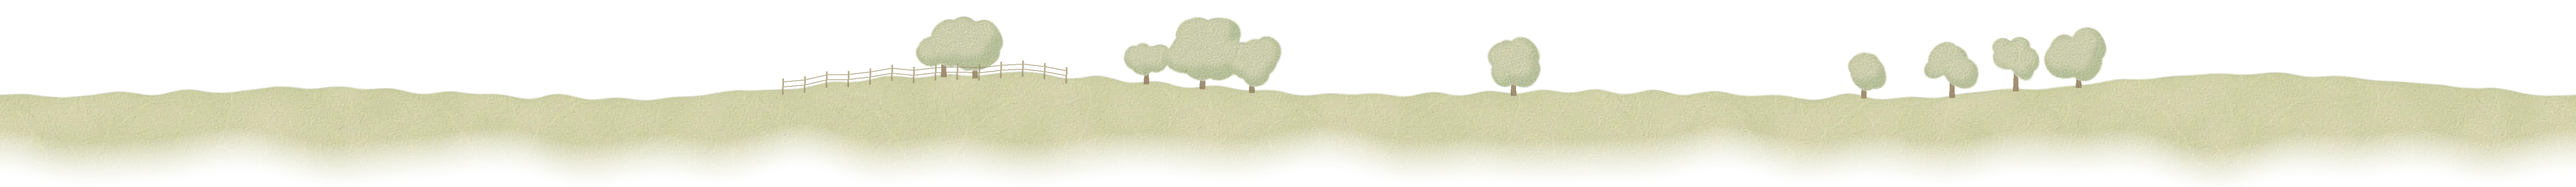
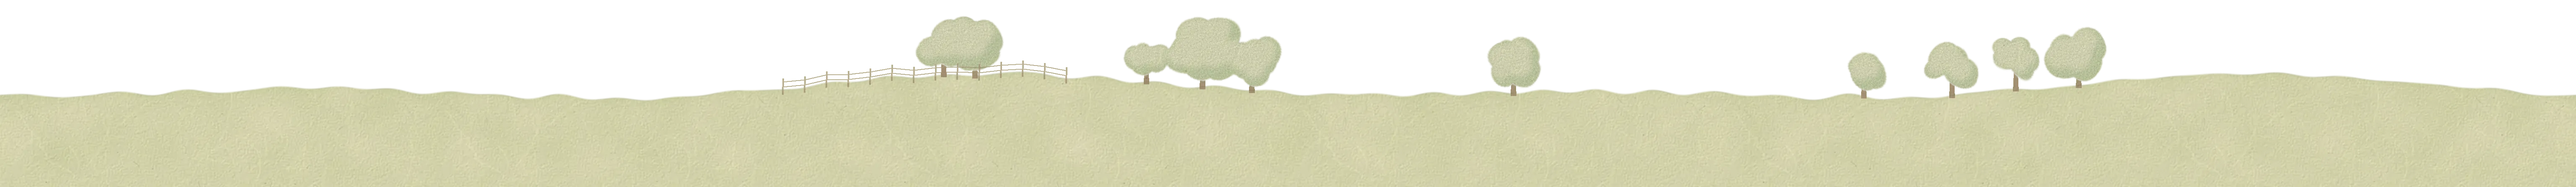
Paper: the landscape moves up and down too, the farther the slower, with more of each layer below it (#20)
Paul (11-06): "ideally the parallax should also move in the Y direction, not just the X direction".
Each layer now has a `--rate-y` (sky 0.02, mountains 0.06, hills 0.15, meadow 0.3), a little under its
rate across. Up and down a layer moves its `--rate-y` of the pan, eased to a stop: for a pan of y px it
moves rate-y × (y − y³ / 3 reach²), with y held within `--reach` (1500 px at scale 1), so at most 20, 60,
150 and 300 px.

So no pan shows an edge, each layer's foot eases over its last 40 px to one tone on the sheet, and a
512 px tile of that tone (`landscape-*-fill.webp`) goes on below it, deeper than the layer in front can
move away from it: mountains 110 px, hills 170, meadow 330. The sky reaches 32 px past the window. The
meadow no longer fades to bare paper at the bottom: its ground goes on down. The other tiles are
unchanged byte for byte.

Changed region(s): [[0.0, 0.7188, 1.0, 1.0]]

diff --git a/packages/paper/paper.css b/packages/paper/paper.css
@@ -45,11 +45,15 @@
 }
 
 /* A landscape in place of the sheet behind a canvas: the sky, then mountains, hills and a meadow, each a layer of its own that a pan moves
-   by `transform` at its `--rate` of the pan, wrapped by its own width past the window (each child's `offsetWidth` less the landscape's). It
-   sits at the bottom of the window whatever the canvas does, and is larger on a taller one. The sky is the sheet, cream under it, with
-   the clouds painted on: one opaque layer where the sheet and its clouds were two. */
+   by `transform`. Across, by its `--rate` of the pan, wrapped by its own width past the window (each child's `offsetWidth` less the
+   landscape's). Up and down, by its `--rate-y` of the pan, eased to a stop: for a pan of y px, at most `--reach` × the scale either way,
+   it moves `--rate-y` × (y − y³ / 3 reach²), so 2/3 × `--rate-y` × reach at the most. Each layer's fill goes on below it further than
+   the layer in front can move away from it, and the sky reaches past the window by more than it moves, so no edge shows. At rest it
+   sits at the bottom of the window, and is larger on a taller one. The sky is the sheet, cream under it, with the clouds painted on: one
+   opaque layer where the sheet and its clouds were two. */
 .paper-landscape {
   --landscape-scale: 1;
+  --reach: 1500;
   position: absolute;
   inset: 0;
   overflow: hidden;
@@ -64,8 +68,9 @@
 
 .paper-landscape-sky {
   --rate: 0.03;
-  top: 0;
-  bottom: 0;
+  --rate-y: 0.02;
+  top: -32px;
+  bottom: -32px;
   width: calc(100% + 2048px);
   background: url("./sky-clouds.webp") 0 0 / 2048px 2048px repeat-x, url("./landscape-sky.webp") 0 0 / 2048px 100% repeat-x, var(--paper-cream);
 }
@@ -80,9 +85,24 @@
   background: var(--tile) 0 0 / var(--period) 100% repeat-x;
 }
 
+.paper-landscape-mountains::after,
+.paper-landscape-hills::after,
+.paper-landscape-meadow::after {
+  content: "";
+  position: absolute;
+  top: 100%;
+  left: 0;
+  right: 0;
+  height: calc(var(--fill) * var(--landscape-scale));
+  background: var(--fill-tile) 0 0 / calc(512px * var(--landscape-scale)) repeat;
+}
+
 .paper-landscape-mountains {
   --rate: 0.08;
+  --rate-y: 0.06;
   --tile: url("./landscape-mountains.webp");
+  --fill-tile: url("./landscape-mountains-fill.webp");
+  --fill: 110px;
   --width: 6144px;
   --height: 280px;
   --bottom: 175px;
@@ -90,7 +110,10 @@
 
 .paper-landscape-hills {
   --rate: 0.2;
+  --rate-y: 0.15;
   --tile: url("./landscape-hills.webp");
+  --fill-tile: url("./landscape-hills-fill.webp");
+  --fill: 170px;
   --width: 4096px;
   --height: 190px;
   --bottom: 96px;
@@ -98,7 +121,10 @@
 
 .paper-landscape-meadow {
   --rate: 0.4;
+  --rate-y: 0.3;
   --tile: url("./landscape-meadow.webp");
+  --fill-tile: url("./landscape-meadow-fill.webp");
+  --fill: 330px;
   --width: 3072px;
   --height: 224px;
   --bottom: 0px;

diff --git a/packages/paper/make_paper.py b/packages/paper/make_paper.py
@@ -12,7 +12,9 @@ The sky is a blue wash that comes and goes down the sheet, and one tile of pictu
 
 The landscape is a sky (the cream sheet with the sky's clouds on it, in paper.css) and three layers over it, each a tile that wraps across
 only, each painted on the cream sheet itself (tooth, flecks and all), so where one hides the sky it shows the same paper: mountains repeat on 6144 px, hills on 4096 and the meadow on 3072, each wider than a
-4K window at the size it's drawn there, and as each pans at its own rate, the three rarely line up as they did.
+4K window at the size it's drawn there, and as each pans at its own rate, the three rarely line up as they did. Each one's foot eases to
+a single tone, and a tile of that tone on the sheet (`-fill`) goes on below it, so a pan up or down that moves the layers apart shows
+more of a layer and never its edge.
 """
 
 import sys
@@ -271,9 +273,18 @@ def pencil(rng, colour, shape, ink, strength):
     return colour * (1 - stroke[..., None]) + np.array(ink, dtype=float) * stroke[..., None]
 
 
-def save_layer(colour, alpha, out):
+def save_layer(colour, alpha, out, paper, scale):
+    """The layer, its foot eased over its last 40 px to one tone on the sheet, and that tone below it as `<out>-fill`: a tile a pan up
+    shows beneath the layer, so the layer goes on down with no edge."""
+    height = colour.shape[0]
+    tone = colour[-round(6 * scale):].reshape(-1, 3).mean(axis=0)
+    toward = np.clip((np.arange(height) - (height - 40 * scale)) / (40 * scale), 0, 1)[:, None, None] ** 2
+    colour = colour * (1 - toward) + paper * (tone / paper.reshape(-1, 3).mean(axis=0)) * toward
     rgba = np.dstack((np.clip(colour, 0, 255), np.clip(alpha, 0, 1) * 255)).round().astype("uint8")
-    Image.fromarray(rgba, "RGBA").save(out, quality=82, alpha_quality=90, method=6)
+    Image.fromarray(rgba, "RGBA").save(f"{out}.webp", quality=82, alpha_quality=90, method=6)
+    sheet = np.asarray(Image.open(out.rsplit("/", 1)[0] + "/cream.webp").convert("RGB"), dtype=float)
+    below = sheet * (tone / sheet.reshape(-1, 3).mean(axis=0))
+    Image.fromarray(np.clip(below, 0, 255).round().astype("uint8")).save(f"{out}-fill.webp", quality=82, method=6)
 
 
 def mountains(rng, paper, out):
@@ -297,7 +308,7 @@ def mountains(rng, paper, out):
         amount *= 1 + 0.05 * granulate(rng, height, width, scale)
         colour = colour * (1 - here[..., None]) + pigment(paper, (0xa2, 0xb0, 0xc4), np.clip(amount, 0, 1)) * here[..., None]
         cover = np.maximum(cover, here)
-    save_layer(colour, cover, out)
+    save_layer(colour, cover, out, paper, scale)
 
 
 def bushes(rng, width, height, scale, count, low, high, size, ground):
@@ -330,7 +341,7 @@ def hills(rng, paper, out):
     amount += 0.12 * np.exp(-np.clip(depth, 0, None) / (4 * scale)) + 0.22 * blur(clumps, 2 * scale) * (depth < 4 * scale)
     amount *= 1 + 0.05 * granulate(rng, height, width, scale)
     colour = pencil(rng, pigment(paper, (0xa6, 0xb8, 0x92), np.clip(amount, 0, 1)), cover, (0x6e, 0x7c, 0x62), 0.25)
-    save_layer(colour, cover, out)
+    save_layer(colour, cover, out, paper, scale)
 
 
 def tree(draw, rng, x, ground, scale):
@@ -360,8 +371,7 @@ def fence(draw, x, ground, posts, scale):
 
 
 def meadow(rng, paper, out):
-    """The meadow nearest: a warm green line with trees in twos and threes and a fence, fading to bare paper at the bottom, as a
-    painter leaves the foreground."""
+    """The meadow nearest: a warm green line with trees in twos and threes and a fence."""
     scale, (width, height) = LAND_SCALE["meadow"], LAND_SIZE["meadow"]
     width, height = round(width * scale), round(height * scale)
     ridge = line(rng, width, 2400 * scale, 700 * scale) * 9 * scale + line(rng, width, 300 * scale, 60 * scale) * 1.6 * scale
@@ -381,10 +391,7 @@ def meadow(rng, paper, out):
     trunk, crown, lit, rails = (np.asarray(layers[name], dtype=float) / 255 for name in ("trunk", "crown", "lit", "fence"))
     crown = wobble(rng, blur(crown, 0.8 * scale), 2 * scale)
     lit = blur(lit * crown, 3 * scale)
-    bottom = height - rows
-    brush = line(rng, width, 900 * scale, 160 * scale)[None, :] * 6 * scale
-    fade = np.clip((bottom - 6 * scale + brush) / (56 * scale), 0, 1) ** 1.5
-    ground_cover = edge(depth, 1.2 * scale) * fade
+    ground_cover = edge(depth, 1.2 * scale)
     amount = 0.52 * (1 + 0.06 * wide_band(rng, height, width, 1 / (500 * scale), 1 / (60 * scale)))
     amount += 0.16 * np.exp(-np.clip(depth, 0, None) / (4 * scale))
     amount *= 1 + 0.06 * granulate(rng, height, width, scale)
@@ -394,7 +401,7 @@ def meadow(rng, paper, out):
     wood = np.clip(trunk * (1 - crown) + rails * 0.8, 0, 1)
     colour = colour * (1 - wood[..., None]) + pigment(paper, (0x9a, 0x86, 0x6a), np.full(wood.shape, 0.9)) * wood[..., None]
     colour = pencil(rng, colour, np.maximum(edge(depth, 1.2 * scale), crown), (0x6a, 0x76, 0x58), 0.26)
-    save_layer(colour, np.maximum(ground_cover, np.maximum(crown, wood)), out)
+    save_layer(colour, np.maximum(ground_cover, np.maximum(crown, wood)), out, paper, scale)
 
 
 def landscape_sky(rng, out):
@@ -415,7 +422,7 @@ def landscape(out):
     for name, paint, seed in (("mountains", mountains, 9), ("hills", hills, 10), ("meadow", meadow, 11)):
         (width, height), scale = LAND_SIZE[name], LAND_SCALE[name]
         paper = paper_under(cream, flecks, round(height * scale), round(width * scale), scale)
-        paint(np.random.default_rng(seed), paper, f"{out}/landscape-{name}.webp")
+        paint(np.random.default_rng(seed), paper, f"{out}/landscape-{name}")
     landscape_sky(np.random.default_rng(12), f"{out}/landscape-sky.webp")
 
 

diff --git a/packages/paper/README.md b/packages/paper/README.md
@@ -21,7 +21,7 @@ For a faded blue sky with drifting picture-book clouds, use `--paper-sky`. To ha
 </div>
 ```
 
-For a pan of `dx` px, move each layer by its `--rate` of it with `transform`, wrapped by its own period: its `offsetWidth` less the landscape's. Each is on a layer of its own, so a pan repaints nothing. It sits at the bottom of the window and grows a step on a taller one. The sky is cream paper with the clouds on it, so it replaces `.paper-world` rather than lying over it, and its clouds don't drift: one more layer the size of the window costs a pan drawn without a GPU more than the three of the land. It's for cream, not ink.
+For a pan of `dx` px, move each layer by its `--rate` of it with `transform`, wrapped by its own period: its `offsetWidth` less the landscape's. Up and down, move it by its `--rate-y`, eased to a stop at `--reach` (`paper.css` has the curve): each layer has a fill below it deeper than the one in front can uncover, and the sky reaches past the window, so no pan shows an edge. Each is on a layer of its own, so a pan repaints nothing. At rest it sits at the bottom of the window, and it grows a step on a taller one. The sky is cream paper with the clouds on it, so it replaces `.paper-world` rather than lying over it, and its clouds don't drift: one more layer the size of the window costs a pan drawn without a GPU more than the three of the land. It's for cream, not ink.
 
 Cream averages `#ecdfc7`; ink `#141415`. Keep text at 4.5:1 against the darkest fibres, not only that average. On the landscape, `#3f2f24` text is 6.6:1 against its darkest 1%, and `#625141` 4.5:1 against all but its darkest 5% (its trees).
 
